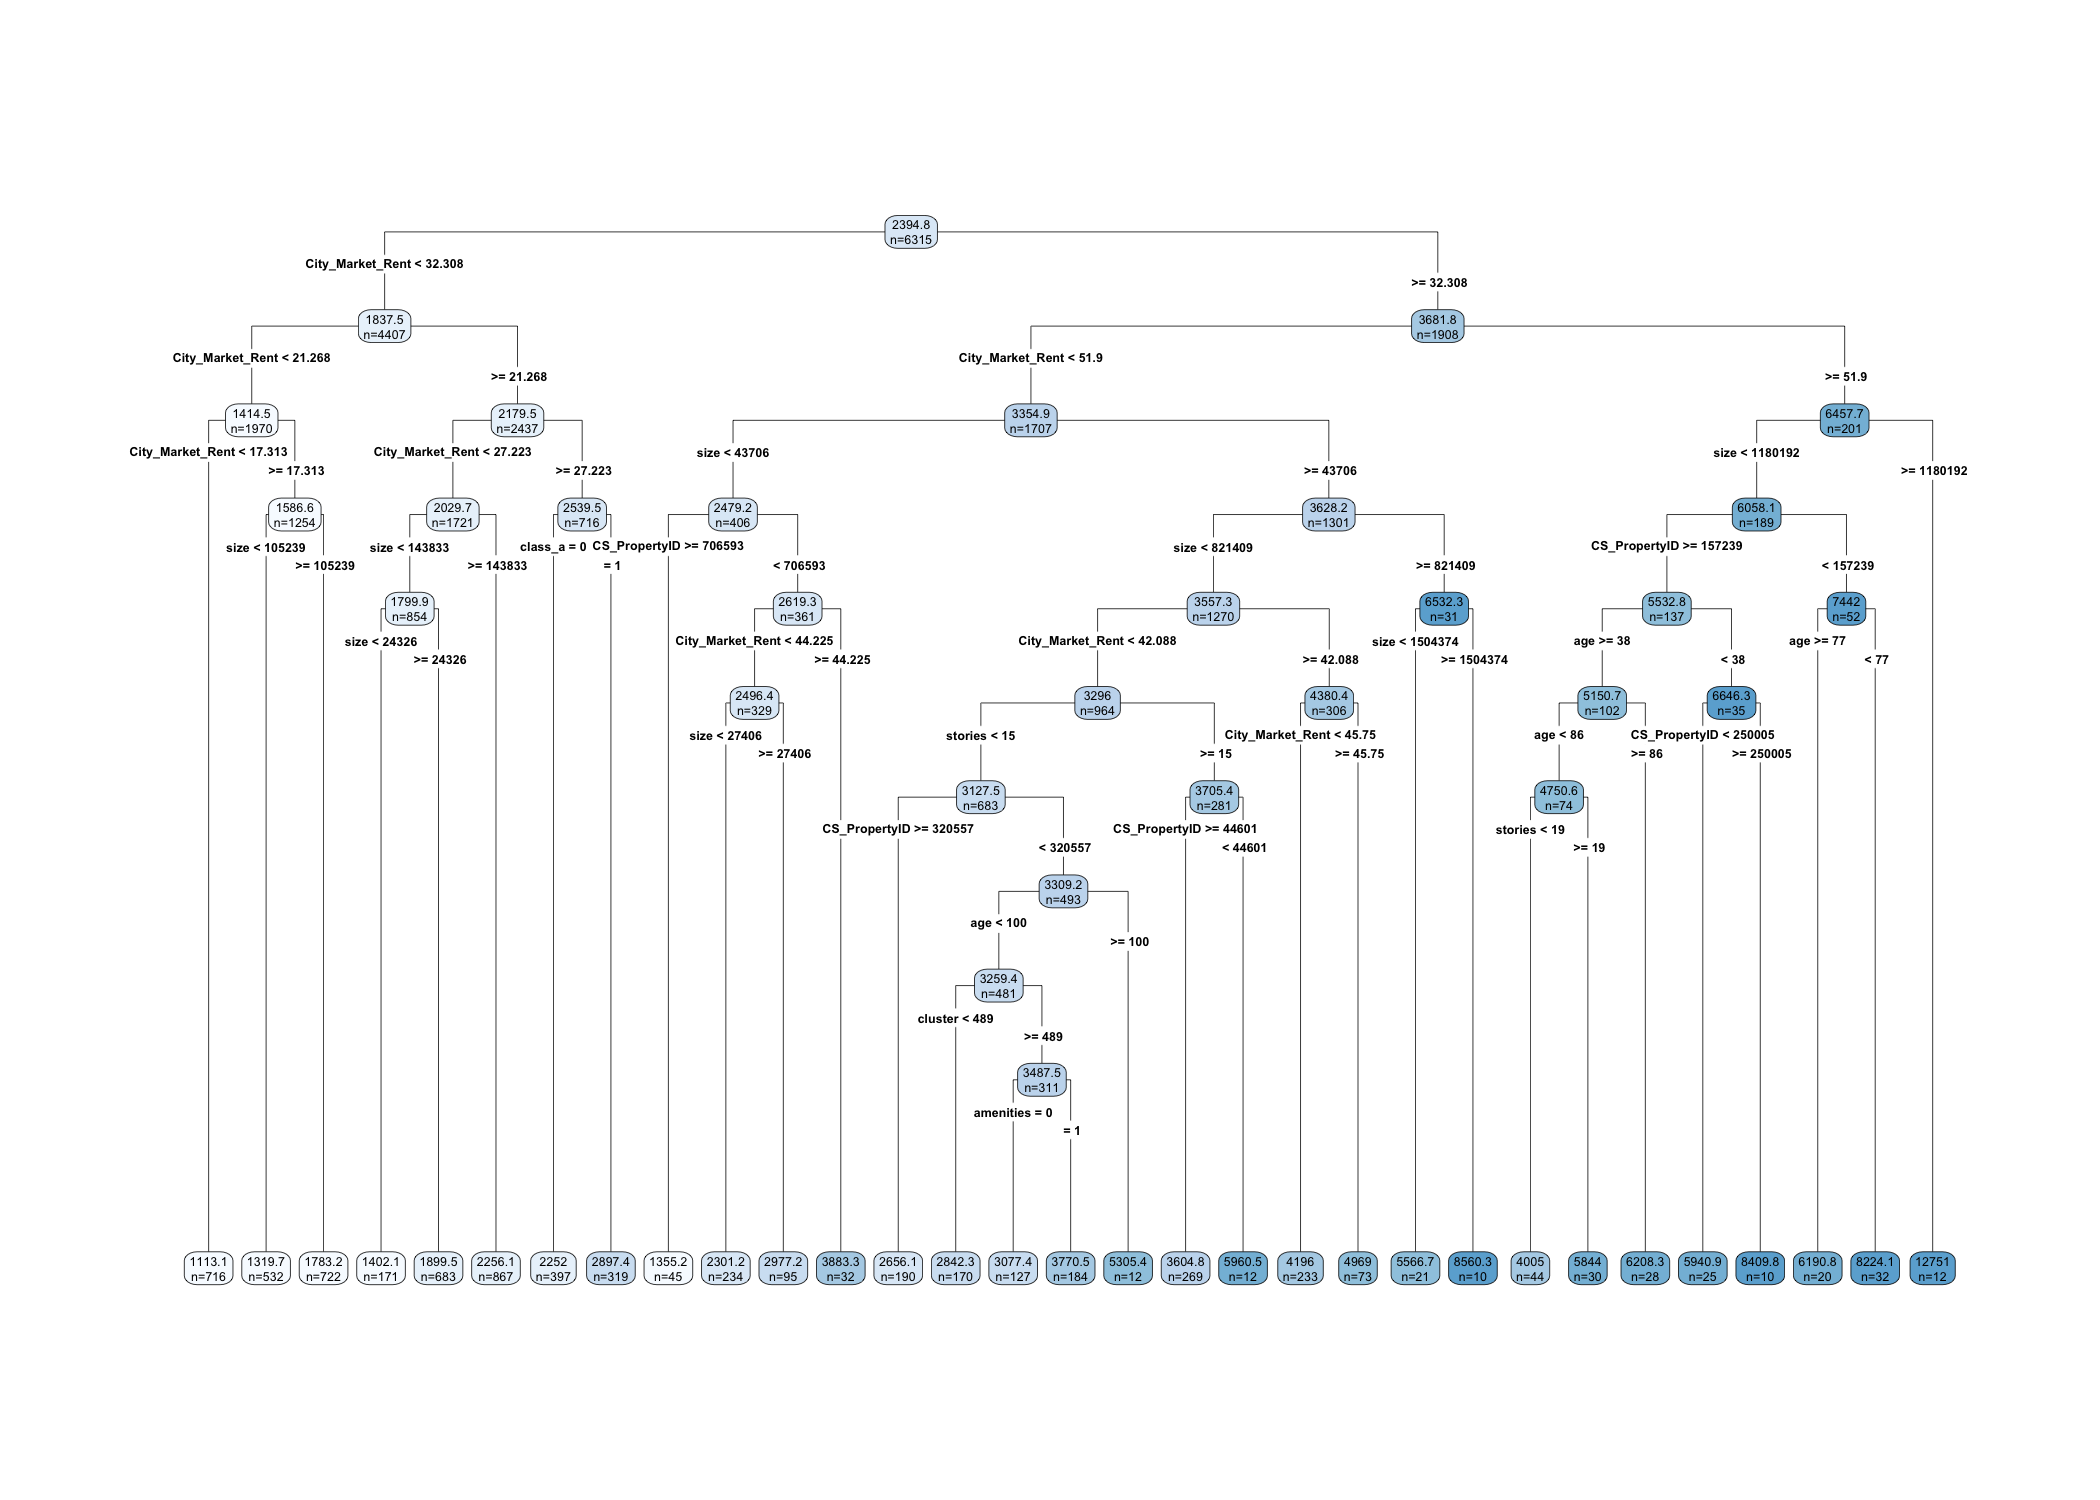
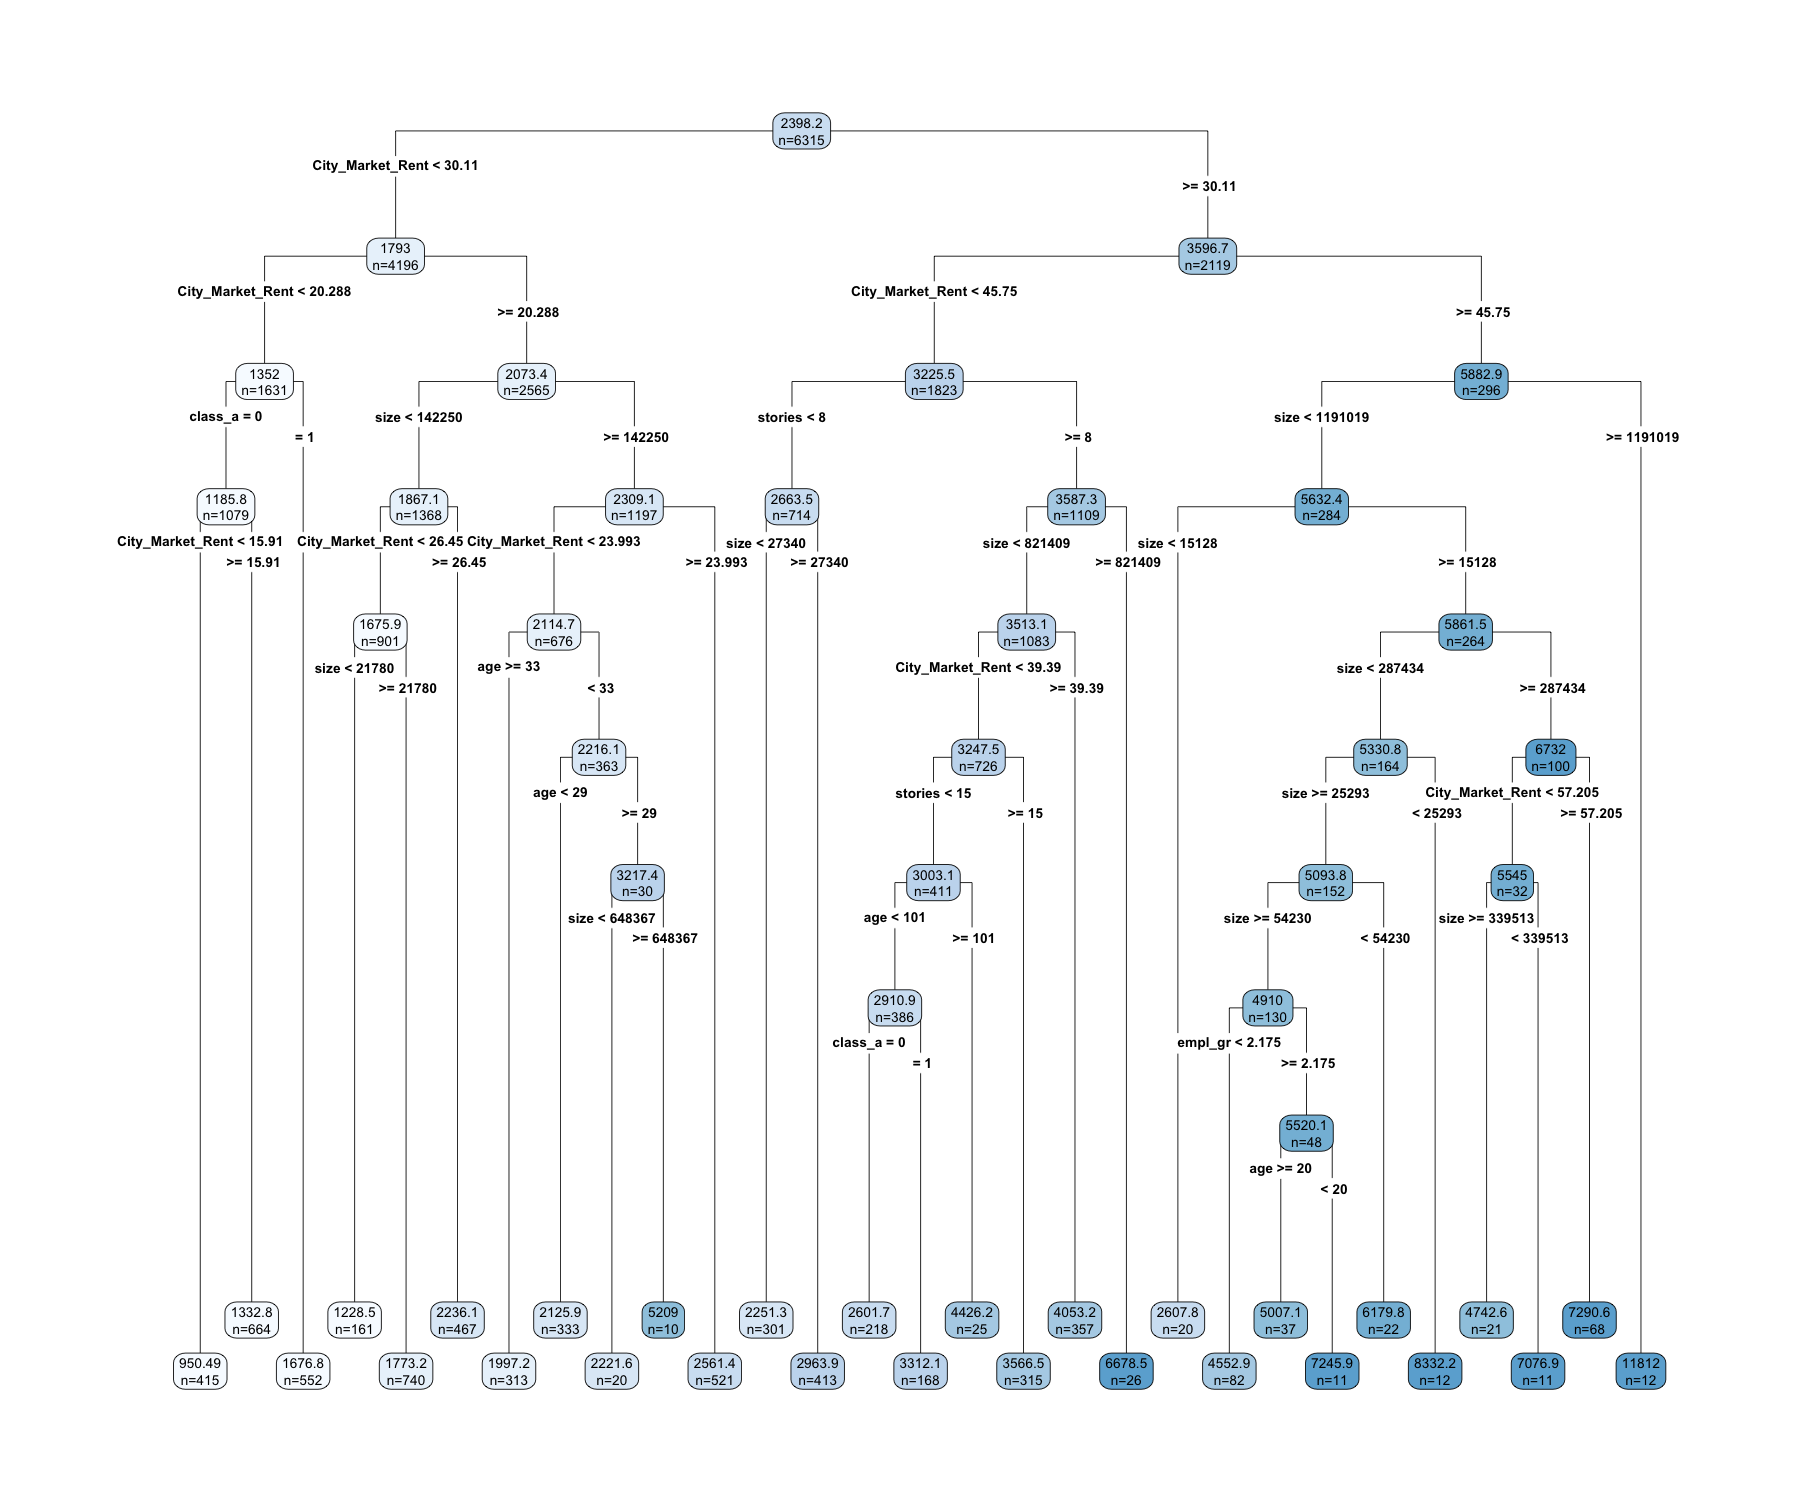
final parts of the writeup

diff --git a/ECO395_Exercises_03.md b/ECO395_Exercises_03.md
@@ -92,10 +92,10 @@ dengue_boost = gbm(total_cases ~ season + city + specific_humidity + precipitati
 
 | Model            |     RMSE |
 |:-----------------|---------:|
-| Tree             | 22.42715 |
-| Pruned Tree      | 20.82818 |
-| Random Forest    | 21.42370 |
-| Gradient Boosted | 22.27760 |
+| Tree             | 24.92751 |
+| Pruned Tree      | 24.82462 |
+| Random Forest    | 24.38226 |
+| Gradient Boosted | 24.98472 |
 
 The best performing model was the random forest model. Below are partial
 dependence plots for `specific_humidity`,
@@ -161,33 +161,86 @@ green.forest = randomForest(revenue ~ . - CS_PropertyID - Rent - leasing_rate - 
 green_boost = gbm(revenue ~ . - CS_PropertyID - Rent - leasing_rate - LEED - Energystar, distribution="gaussian", data = green_train, interaction.depth=4, n.trees=500, shrinkage=.05)
 ```
 
+I included two tree models with the second one being pruned back. I also
+ran a random forest and gradient boosted model. I initially tried to
+throw in the interaction terms included in the linear model into the
+random forest model, but found that they performed better with the
+simpler model.
+
 ### Results
 
 | Model                 |      RMSE |
 |:----------------------|----------:|
-| Linear Model          |  990.5203 |
-| Modified Linear Model |  981.2781 |
-| Tree                  |  968.2260 |
-| Pruned Tree           | 1035.4270 |
-| Random Forest         |  733.1759 |
-| Gradient Boosted      |  947.9235 |
+| Linear Model          | 1035.8559 |
+| Modified Linear Model | 1020.8357 |
+| Tree                  |  981.5698 |
+| Pruned Tree           | 1009.7719 |
+| Random Forest         |  759.0505 |
+| Gradient Boosted      |  919.1550 |
 
-The linear model improved over the original one with all
+When estimating the out-of-sample accuracy, my modified linear model
+improved over the original one, and fairly similarly with the other
+models. But all the models were blown out of the water by the random
+forest model.
 
 ## Predictive model building: California housing
 
-    ## Distribution not specified, assuming gaussian ...
+### Linear models
 
-    ## [1] 77072.33
+``` r
+lm_housing = lm(medianHouseValue ~ . - latitude - longitude, data=housing_train)
 
-    ## [1] 76625.71
+lm_housing_modified  = lm(medianHouseValue ~ . - latitude - longitude + population:medianIncome + poly(population,2) + totalRooms:households, data=housing_train)
+```
 
-    ## [1] 78010.35
+I started off by regressing medianHouseValue on every variable but
+taking out `latitude` and `longitude`. To improve upon the model, I
+interacted population with `medianIncome`, `totalRooms` with
+`households` and a squared `population` term.
 
-    ## [1] 78694.53
+### CART
 
-    ## [1] 65877.97
+``` r
+housing.tree = rpart(medianHouseValue ~ . - latitude - longitude, data=housing_train, control = rpart.control(cp = 0.002, minsplit=30))
 
-    ## [1] 67071.33
+prune_1se = function(my_tree) {
+  out = as.data.frame(my_tree$cptable)
+  thresh = min(out$xerror + out$xstd)
+  cp_opt = max(out$CP[out$xerror <= thresh])
+  prune(my_tree, cp=cp_opt)
+}
 
-![](ECO395_Exercises_03_files/figure-markdown_github/unnamed-chunk-16-1.png)![](ECO395_Exercises_03_files/figure-markdown_github/unnamed-chunk-16-2.png)![](ECO395_Exercises_03_files/figure-markdown_github/unnamed-chunk-16-3.png)
+housing.tree_prune = prune_1se(housing.tree)
+```
+
+### Random forest
+
+``` r
+housing.forest = randomForest(medianHouseValue ~ . - latitude - longitude, data = housing_train, importance = TRUE)
+```
+
+### Gradient boost
+
+``` r
+housing_boost = gbm(medianHouseValue ~ . - latitude - longitude, distribution="gaussian", data = housing_train, interaction.depth=4, n.trees=500, shrinkage=.05)
+```
+
+Like in the previous problem, I made two tree models including a pruned
+tree model. I also ran a random forest and gradient boosted model.
+
+### Results
+
+| Model                 |     RMSE |
+|:----------------------|---------:|
+| Linear Model          | 77033.58 |
+| Modified Linear Model | 75572.01 |
+| Tree                  | 80433.96 |
+| Pruned Tree           | 80941.97 |
+| Random Forest         | 66585.93 |
+| Gradient Boosted      | 67564.51 |
+
+Again, the modified linear model outperformed original linear models and
+even the tree models.However, the random forest model performed the best
+in the estimates of out-of-sample accuracy.
+
+![](ECO395_Exercises_03_files/figure-markdown_github/unnamed-chunk-22-1.png)![](ECO395_Exercises_03_files/figure-markdown_github/unnamed-chunk-22-2.png)![](ECO395_Exercises_03_files/figure-markdown_github/unnamed-chunk-22-3.png)
